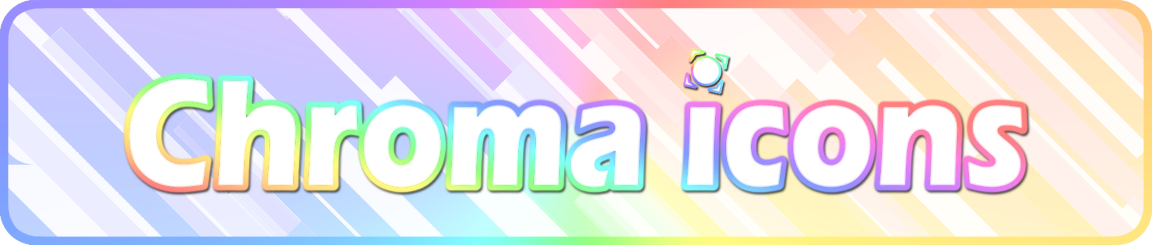
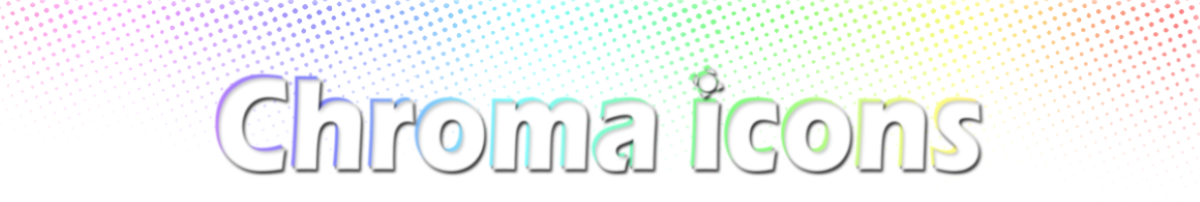
v3.5.5

diff --git a/changelog.md b/changelog.md
@@ -1,5 +1,10 @@
 Working for Transparent BG these days, this mod won't be that update active
 
+# 3.5.5
+### Update
+- Bump Happy Textures Version to 2.0.0 as the requirement;
+- New banner in about.md (planned to release in 3.6.0)
+
 # 3.5.4
 ### Bugfix
 - Fix ghost trails issue when flipped gravity or going upside down
